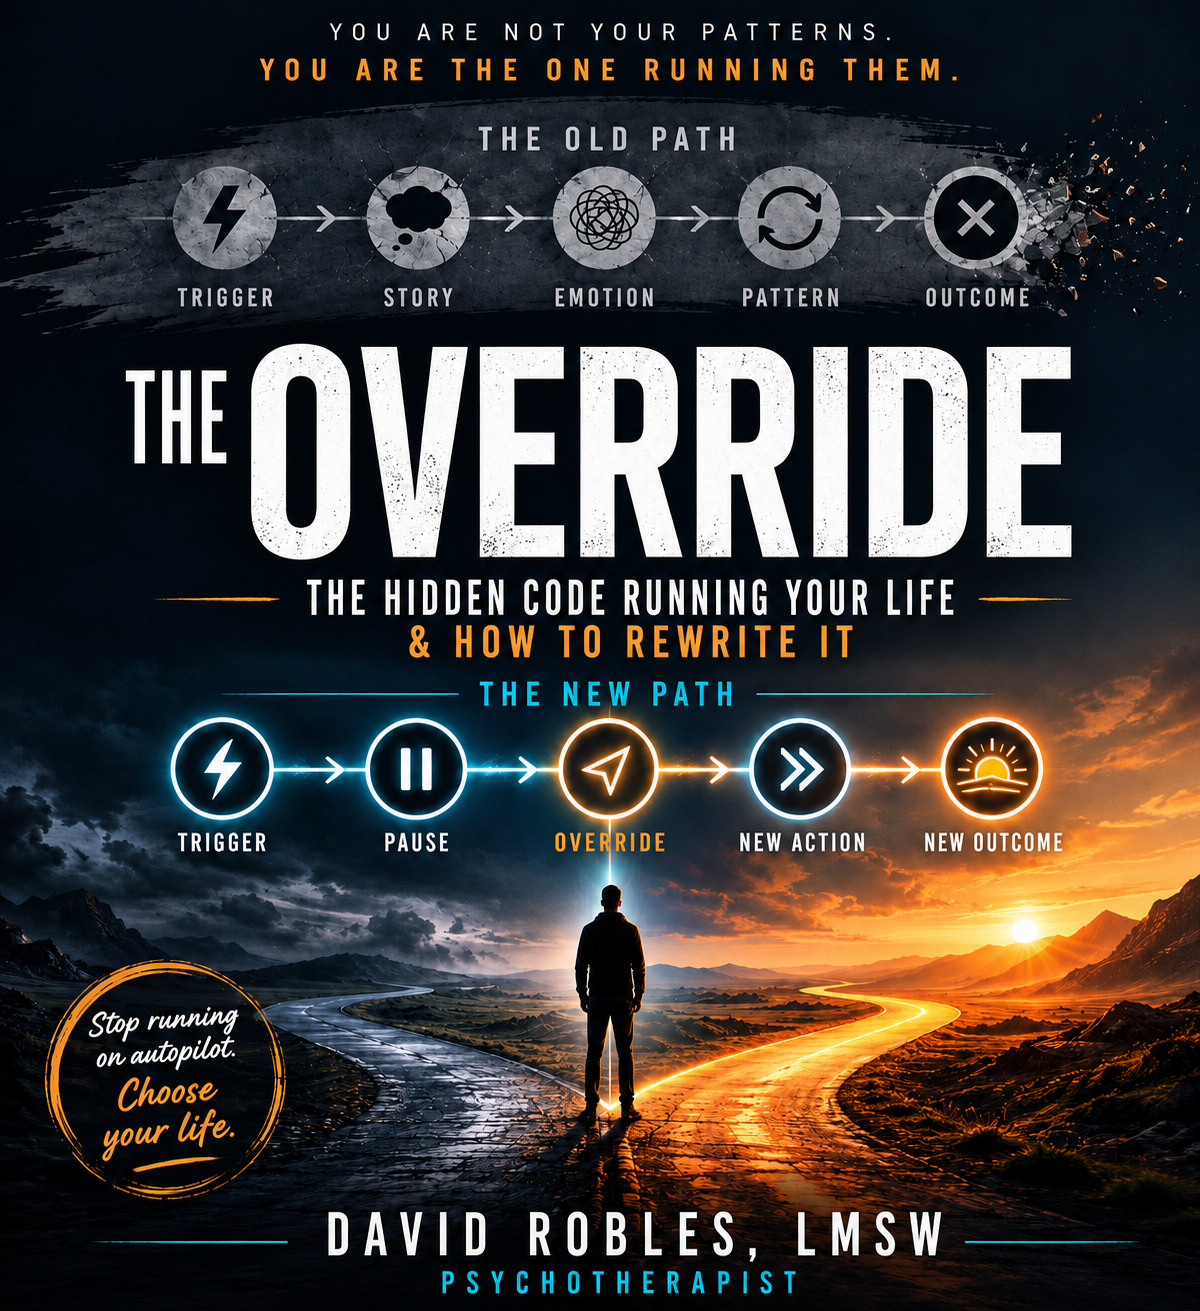
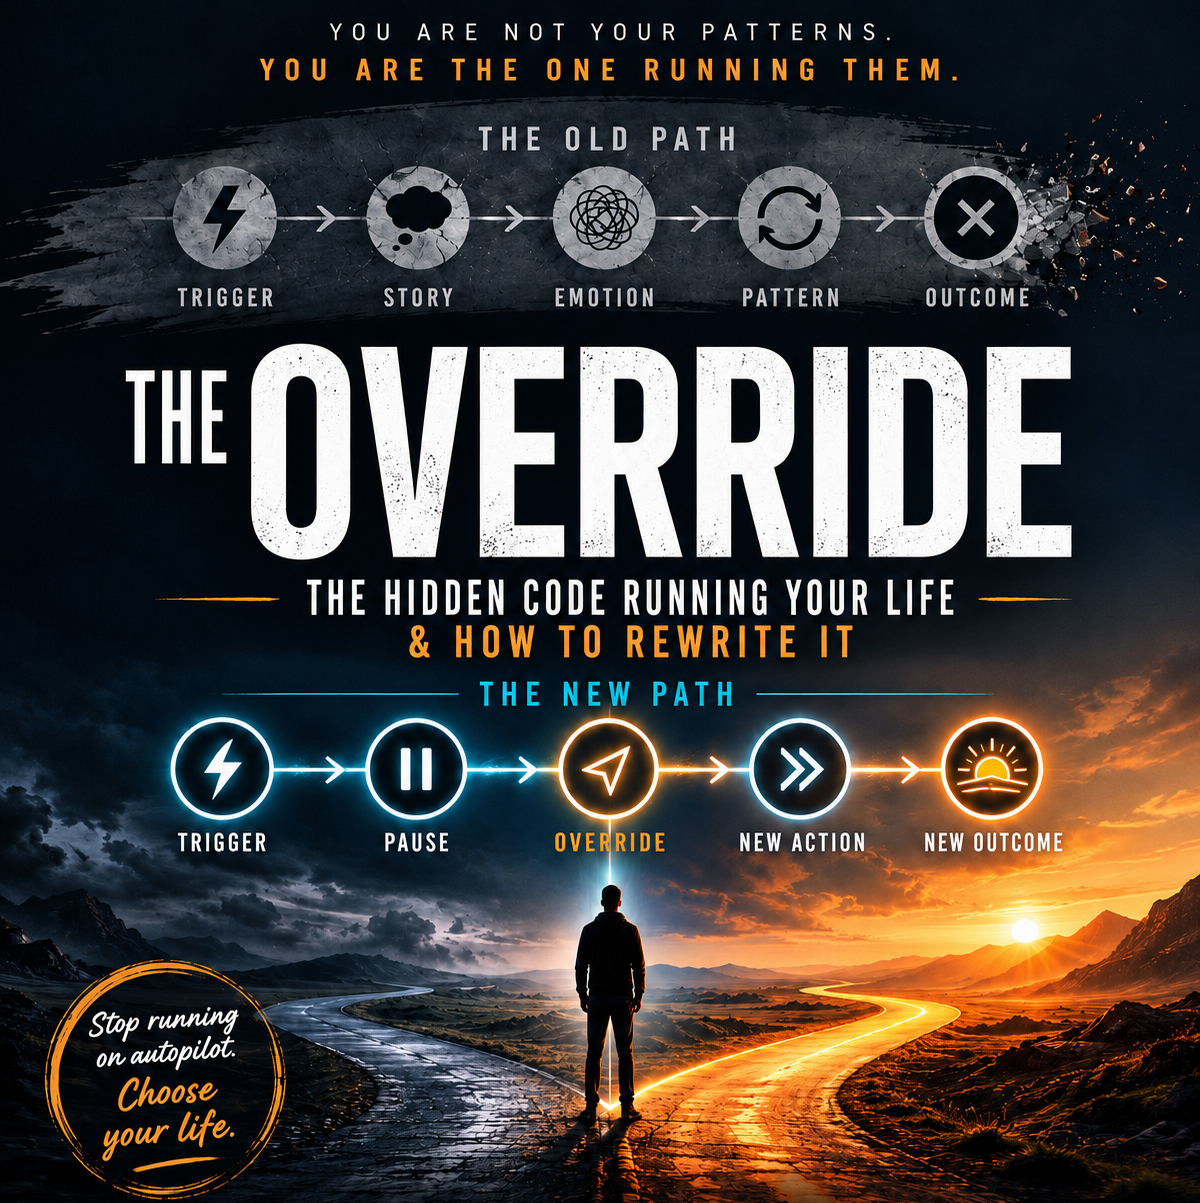
Take the clinical license off the book page
Drop "LMSW" from the title, meta description, and cover alt text, and replace the
"Licensed Psychotherapist" byline and bio with coaching copy. Crop the name line
off the blurred hero background, and remove the unused cover.png, since both images
printed "David Robles, LMSW".

diff --git a/book/index.html b/book/index.html
@@ -3,8 +3,8 @@
 <head>
 <meta charset="UTF-8" />
 <meta name="viewport" content="width=device-width, initial-scale=1.0" />
-<title>The Override: Break the Pattern. Choose Your Life. | David Robles, LMSW</title>
-<meta name="description" content="The hidden code running your life, and how to rewrite it. Get the free Override Starter Guide: the 5-step model plus a quick self-assessment to find your pattern. By David Robles, LMSW." />
+<title>The Override: Break the Pattern. Choose Your Life. | David Robles</title>
+<meta name="description" content="The hidden code running your life, and how to rewrite it. Get the free Override Starter Guide: the 5-step model plus a quick self-assessment to find your pattern. By David Robles." />
 
 <meta property="og:title" content="The Override: Break the Pattern. Choose Your Life." />
 <meta property="og:description" content="Get the free Override Starter Guide: the 5-step model and a quick self-assessment to find the pattern running your life." />
@@ -257,7 +257,7 @@
     <div class="hero-inner">
       <!-- the real book cover, shown as the product -->
       <div class="hero-cover">
-        <img src="the-book-v3.png" alt="The Override by David Robles, LMSW, book cover" />
+        <img src="the-book-v3.png" alt="The Override by David Robles, book cover" />
       </div>
 
       <!-- offer copy + CTA (complements the cover, doesn't repeat the title) -->
@@ -443,8 +443,8 @@
   <section class="author">
     <div class="wrap">
       <h2>David Robles</h2>
-      <div class="role">Licensed Psychotherapist</div>
-      <p>I'm a psychotherapist who has sat with real people in real pain and distilled what actually works. The Override is the model I use to help people stop running on autopilot and start choosing their lives.</p>
+      <div class="role">Creator of The Override Method</div>
+      <p>I'm a coach, an author, and the creator of The Override Method. I've spent years working with people who look like they have it all together and still keep running the same loop. The Override is the system I built to break that loop, so you stop defaulting and start choosing.</p>
       <p>You are not your patterns. You never were. Let me show you how to rewrite them.</p>
     </div>
   </section>
